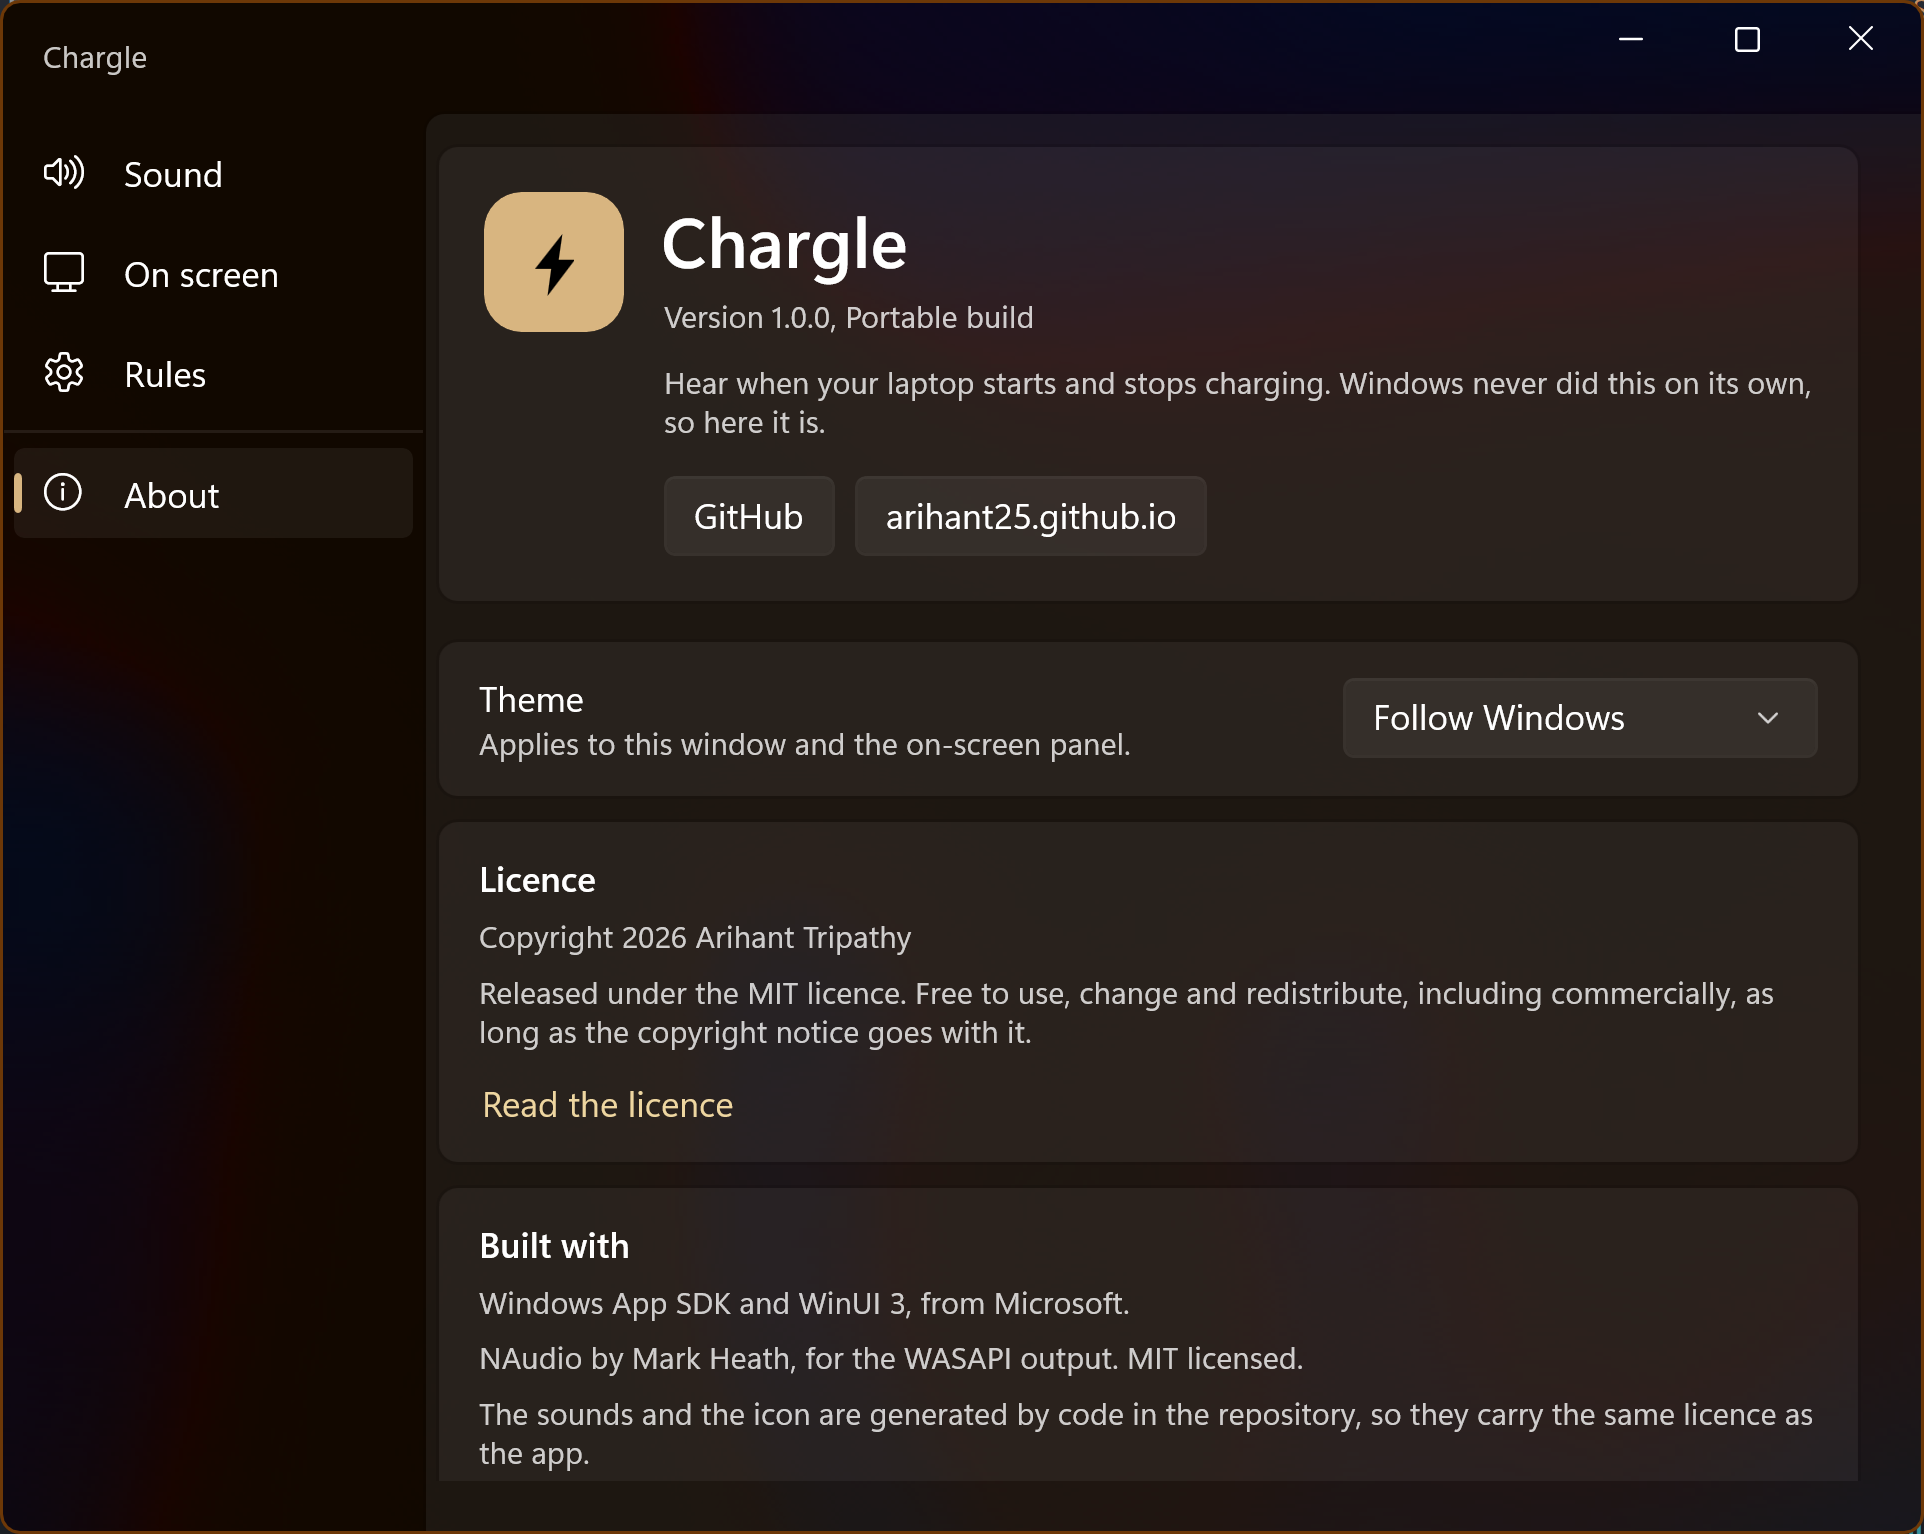
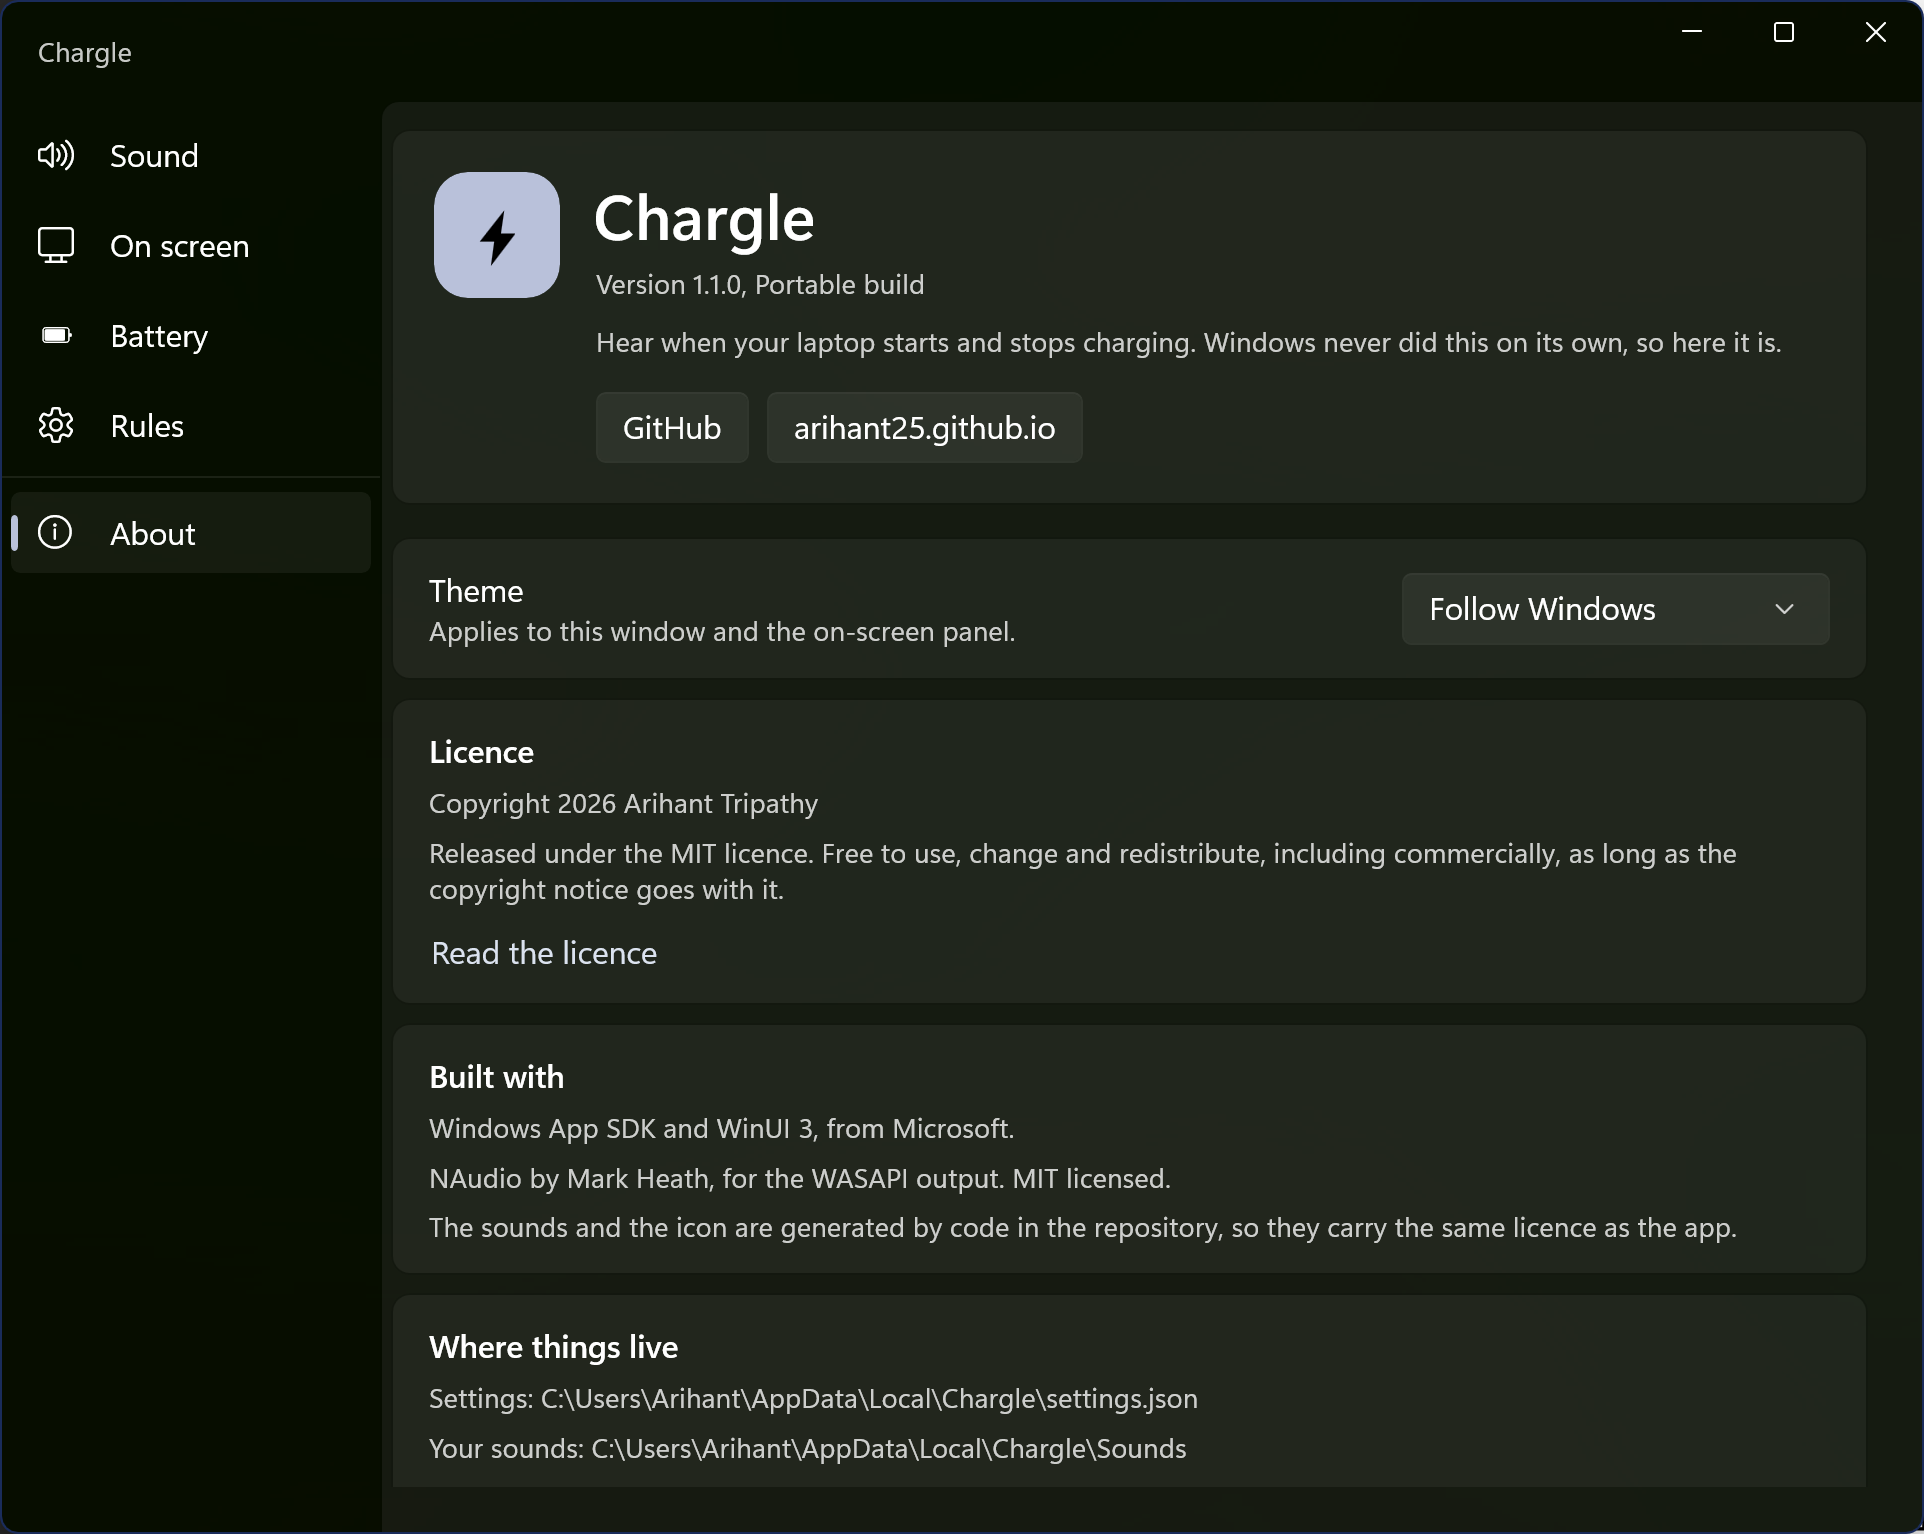
Recapture the screenshots, and point winget at a package that exists
Every page shot is retaken from the 1.1.0 build, at the same 1924x1534 the
old ones used so they drop straight in. Rules loses the milestones expander,
and Battery is new, with a tab of its own on the site.

The README told people to run `winget install Arihant25.Chargle`, and there
is no such package: microsoft/winget-pkgs has no manifest under that name, so
the command has never resolved. `winget search Chargle` finds it only in the
msstore source, as 9PP0T5VTMSC2, which is the same Store build the badge
links to. Point the instructions at that.

diff --git a/docs/assets/site.js b/docs/assets/site.js
@@ -547,7 +547,7 @@
   deskOsd.style.setProperty("--osd-accent", COLOURS[0].hex);
   deskOsd.style.setProperty("--osd-fg", foregroundOn(COLOURS[0].hex));
 
-  /* --- the four pages ----------------------------------------------------- */
+  /* --- the five pages ----------------------------------------------------- */
 
   var SHOTS = {
     sound: {
@@ -559,6 +559,11 @@
       file: "screenshot-screen.png",
       alt: "The On screen page, with settings for how much the panel says, its colour, where it appears and how long it stays",
       cap: "How much the panel says, what colour it is, where it sits and how long it stays"
+    },
+    battery: {
+      file: "screenshot-battery.png",
+      alt: "The Battery page, showing the charged and low milestones with their levels, how each one announces itself, and which sound it uses",
+      cap: "Full and low, each with its own level and its own sound, chiming or showing the panel"
     },
     rules: {
       file: "screenshot-rules.png",

diff --git a/docs/index.html b/docs/index.html
@@ -446,6 +446,7 @@
             <div class="shot-tabs" id="shotTabs" role="tablist" aria-label="Pages of the app">
               <button class="pill" type="button" data-shot="sound" aria-pressed="true">Sound</button>
               <button class="pill" type="button" data-shot="screen" aria-pressed="false">On screen</button>
+              <button class="pill" type="button" data-shot="battery" aria-pressed="false">Battery</button>
               <button class="pill" type="button" data-shot="rules" aria-pressed="false">Rules</button>
               <button class="pill" type="button" data-shot="about" aria-pressed="false">About</button>
             </div>

diff --git a/README.md b/README.md
@@ -102,10 +102,10 @@ That is the whole format. Restart Chargle and the pack will show up in the list.
 
 The [Microsoft Store](https://apps.microsoft.com/detail/9pp0t5vtmsc2) is the easiest way to get it. It is free, and updates arrive on their own.
 
-From a terminal, use winget:
+From a terminal, use winget, which installs the same Store build:
 
 ```bash
-winget install Arihant25.Chargle
+winget install 9PP0T5VTMSC2
 ```
 
 For the portable build, download the zip from [Releases](../../releases), extract it anywhere, and run `Chargle.exe`. It is self-contained, so there is nothing else to install first. The trade-off is that the download is fairly large.
